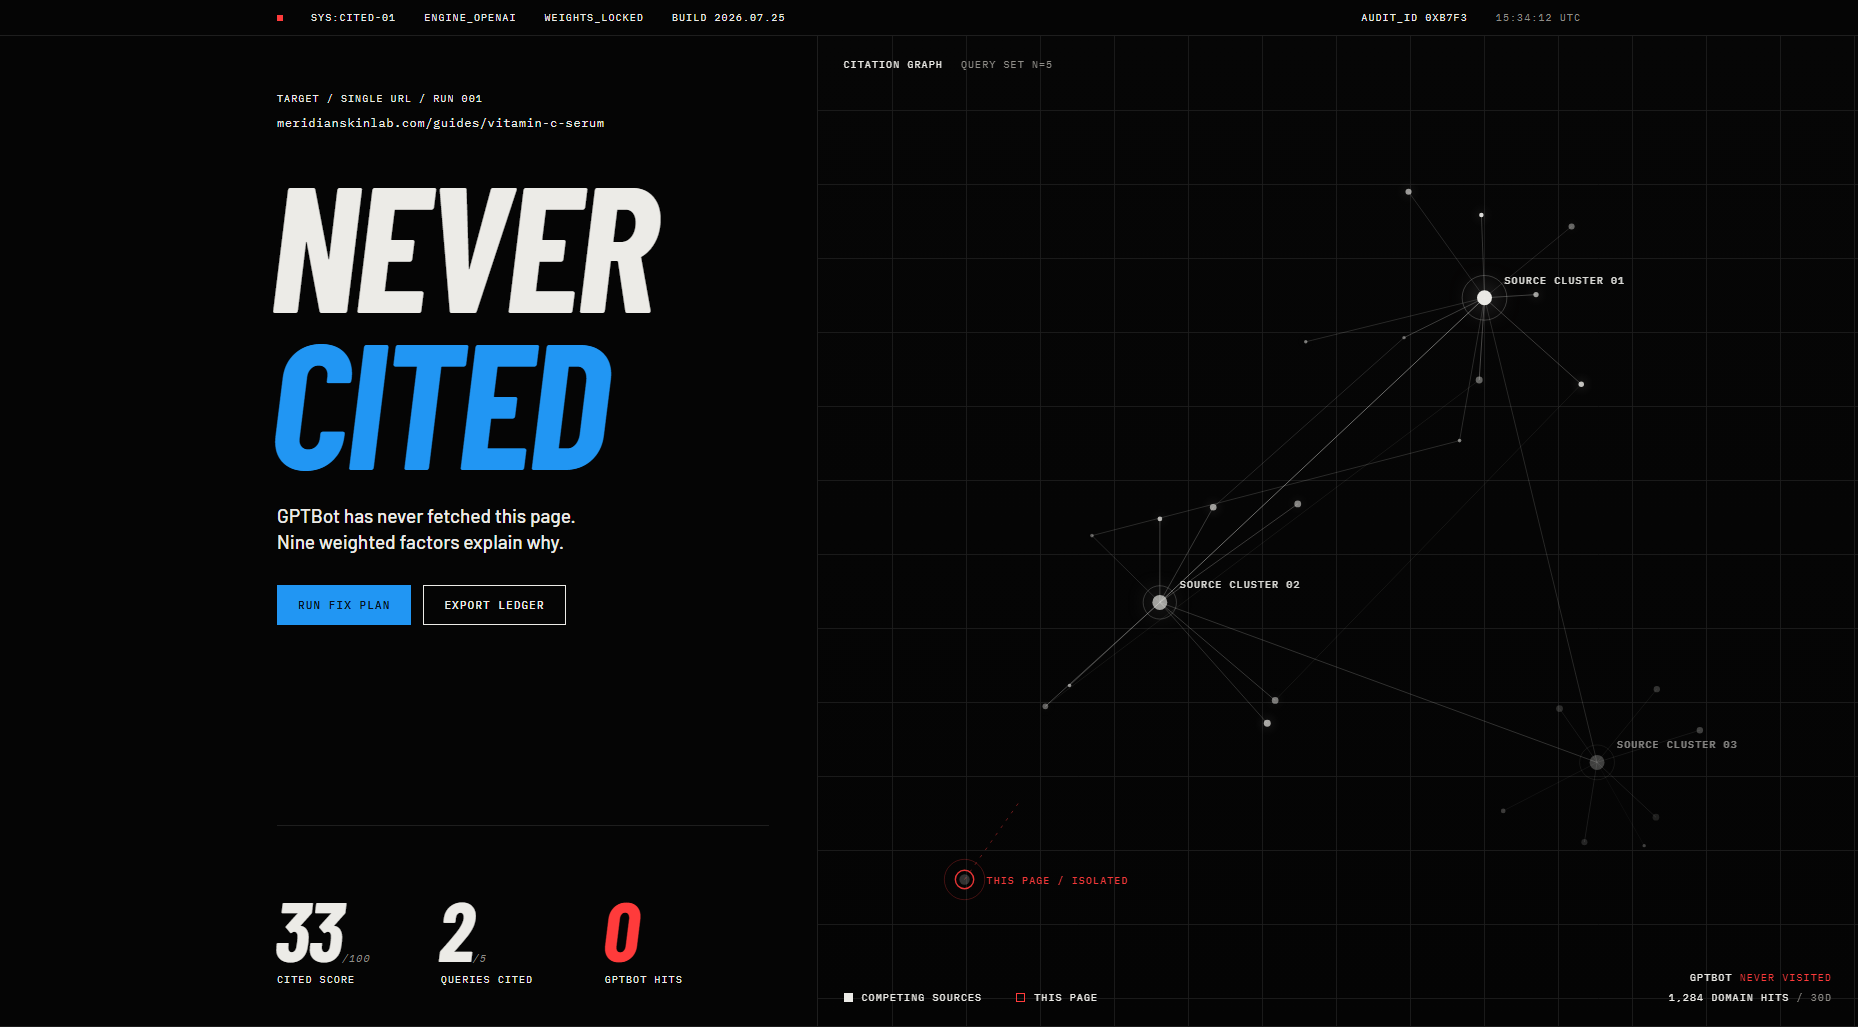
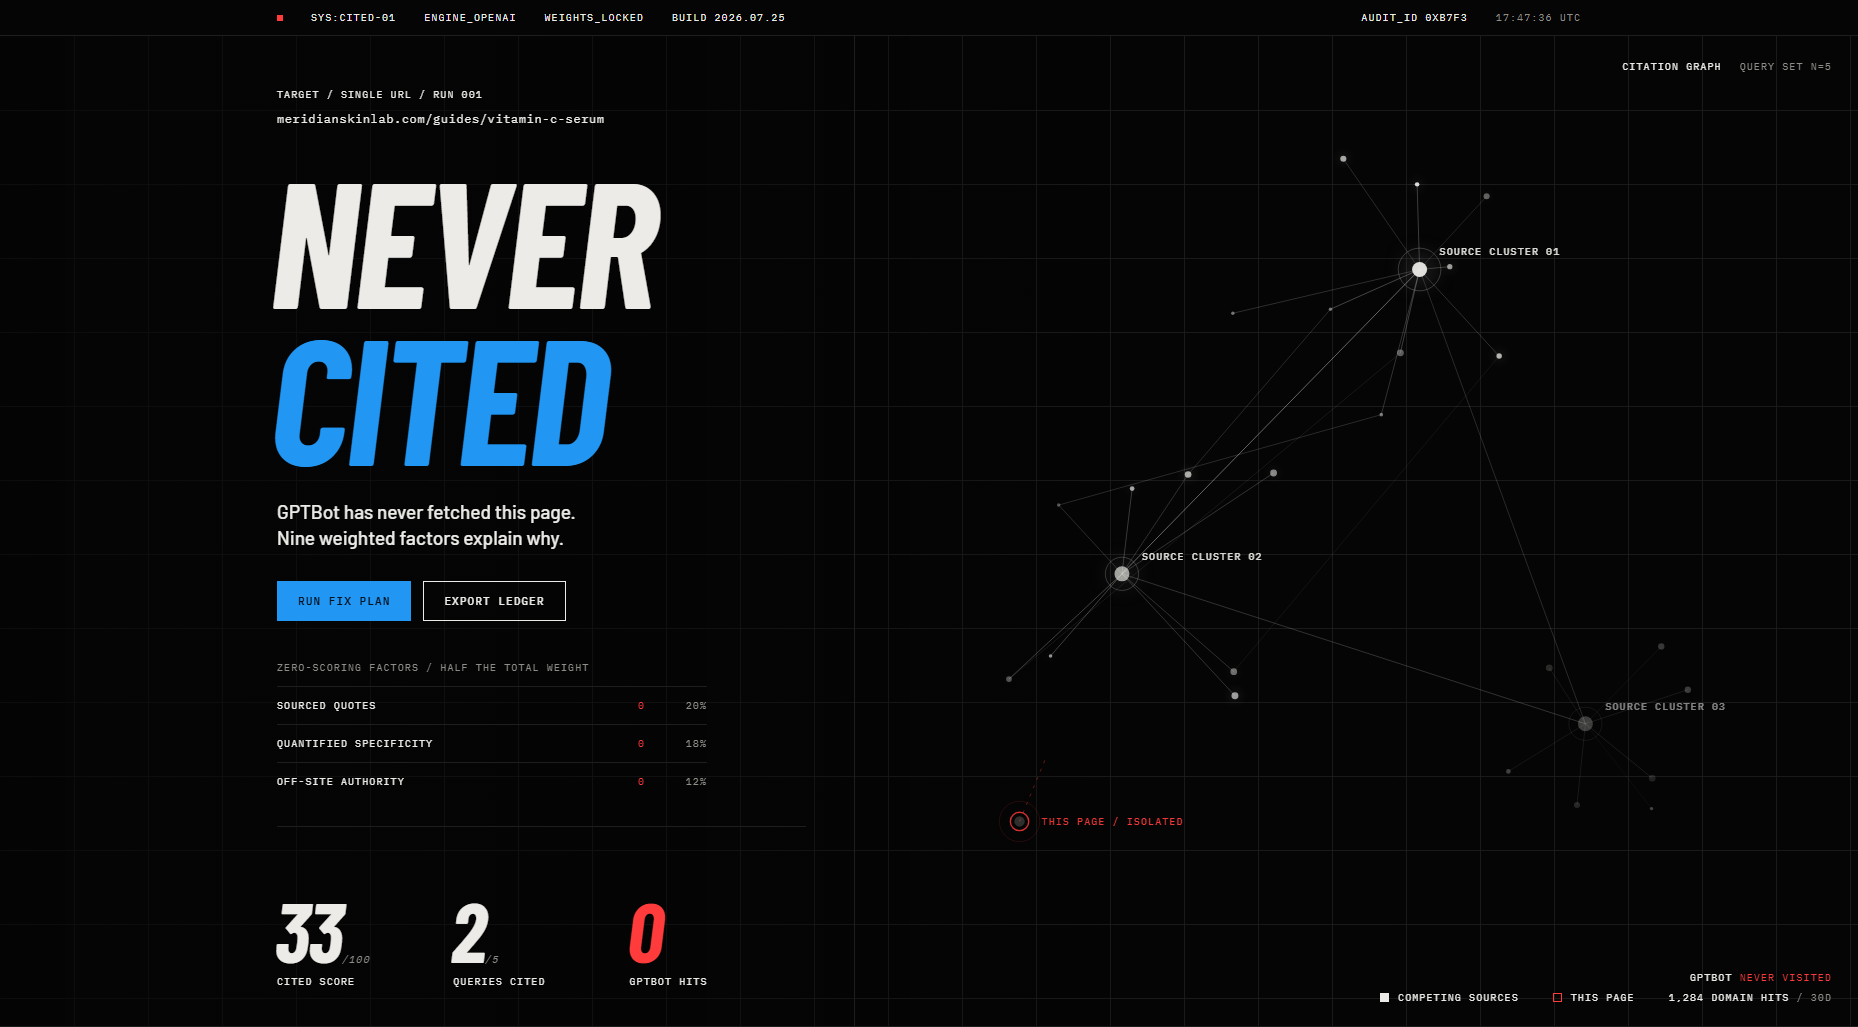
design(variant-b): full-bleed grid + graph across the hero, clusters constrained right, zero-factor block fills the left column

diff --git a/design/mockups/variant-b-brutalist.html b/design/mockups/variant-b-brutalist.html
@@ -160,14 +160,28 @@ body{
    ============================================================ */
 
 .hero{
+  position:relative;
   min-height:calc(100vh - var(--bar-h));
   display:grid;
-  grid-template-columns:minmax(0,44%) minmax(0,56%);
+  grid-template-columns:minmax(0,46%) minmax(0,54%);
   border-bottom:1px solid var(--rule);
+  overflow:hidden;
+}
+
+/* the ruled grid + graph run edge to edge behind the whole hero */
+.hero__stage{ position:absolute; inset:0; z-index:0; }
+
+/* light scrim only: the grid must stay visible under the copy, the clusters live right */
+.hero__scrim{
+  position:absolute; inset:0; z-index:1; pointer-events:none;
+  background:linear-gradient(90deg,
+    rgba(5,5,5,0.62) 0%, rgba(5,5,5,0.44) 36%, rgba(5,5,5,0) 60%);
 }
 
 .hero__left{
-  padding:56px var(--pad) 40px var(--gutter);
+  position:relative;
+  z-index:2;
+  padding:52px var(--pad) 38px var(--gutter);
   display:flex;
   flex-direction:column;
   border-right:1px solid var(--rule);
@@ -208,6 +222,23 @@ body{
   padding-top:30px;
 }
 
+/* the three zeros, filling the left column with data instead of dead space */
+.zeros{
+  margin-top:40px;
+  max-width:430px;
+}
+.zeros__h{ display:block; padding-bottom:12px; }
+.zeros__r{
+  display:grid;
+  grid-template-columns:minmax(0,1fr) 30px 48px;
+  gap:14px;
+  align-items:baseline;
+  border-top:1px solid var(--rule);
+  padding:12px 0;
+}
+.zeros__r span:nth-child(2),
+.zeros__r span:nth-child(3){ text-align:right; }
+
 .stats{
   margin-top:auto;
   padding-top:44px;
@@ -230,30 +261,30 @@ body{
 
 /* ---- canvas panel ---- */
 
+/* label layer only — the canvas itself is the full-bleed stage behind */
 .hero__vis{
   position:relative;
-  min-height:520px;
-  background:
-    linear-gradient(180deg, #060606 0%, #040404 100%);
+  z-index:2;
 }
 #net{ display:block; width:100%; height:100%; }
 
 .vis__tag{
   position:absolute;
-  top:22px;
-  left:26px;
+  top:24px;
+  right:26px;
   display:flex;
   gap:18px;
 }
+/* anchored right so the bottom band reads as one block instead of floating mid-void */
 .vis__legend{
   position:absolute;
   bottom:22px;
-  left:26px;
+  left:auto;
   right:26px;
   display:flex;
   gap:34px;
   align-items:flex-end;
-  flex-wrap:wrap;
+  flex-wrap:nowrap;
 }
 .legend__item{
   display:flex;
@@ -514,6 +545,9 @@ body{
 <!-- ============================ 1 — HERO ============================ -->
 <section class="hero">
 
+  <div class="hero__stage"><canvas id="net"></canvas></div>
+  <div class="hero__scrim"></div>
+
   <div class="hero__left">
     <div class="kicker">
       <span class="mono-sm">TARGET / SINGLE URL / RUN 001</span>
@@ -527,6 +561,25 @@ body{
     <div class="actions">
       <a class="btn btn--primary" href="#">RUN FIX PLAN</a>
       <a class="btn" href="#">EXPORT LEDGER</a>
+    </div>
+
+    <div class="zeros">
+      <span class="mono-sm meta zeros__h">ZERO-SCORING FACTORS / HALF THE TOTAL WEIGHT</span>
+      <span class="zeros__r">
+        <span class="mono-sm">SOURCED QUOTES</span>
+        <span class="mono-sm red">0</span>
+        <span class="mono-sm meta">20%</span>
+      </span>
+      <span class="zeros__r">
+        <span class="mono-sm">QUANTIFIED SPECIFICITY</span>
+        <span class="mono-sm red">0</span>
+        <span class="mono-sm meta">18%</span>
+      </span>
+      <span class="zeros__r">
+        <span class="mono-sm">OFF-SITE AUTHORITY</span>
+        <span class="mono-sm red">0</span>
+        <span class="mono-sm meta">12%</span>
+      </span>
     </div>
 
     <div class="stats">
@@ -546,8 +599,6 @@ body{
   </div>
 
   <div class="hero__vis">
-    <canvas id="net"></canvas>
-
     <div class="vis__tag">
       <span class="mono-sm">CITATION GRAPH</span>
       <span class="mono-sm meta">QUERY SET N=5</span>
@@ -721,10 +772,12 @@ body{
   var INK = '236,235,231';
   var RED = '255,59,59';
 
+  /* The canvas is now the full hero width, so cluster x sits in the right half only
+     (copy owns the left) and r is scaled down to keep the same spread in pixels. */
   var clusters = [
-    { x: 0.63, y: 0.26, count: 9, glow: 1.00, r: 0.15, label: 'SOURCE CLUSTER 01' },
-    { x: 0.34, y: 0.57, count: 8, glow: 0.92, r: 0.14, label: 'SOURCE CLUSTER 02' },
-    { x: 0.76, y: 0.74, count: 7, glow: 0.34, r: 0.12, label: 'SOURCE CLUSTER 03' }
+    { x: 0.755, y: 0.23, count: 9, glow: 1.00, r: 0.082, label: 'SOURCE CLUSTER 01' },
+    { x: 0.615, y: 0.54, count: 8, glow: 0.92, r: 0.076, label: 'SOURCE CLUSTER 02' },
+    { x: 0.865, y: 0.70, count: 7, glow: 0.34, r: 0.066, label: 'SOURCE CLUSTER 03' }
   ];
 
   var hubs = [], nodes = [], links = [];
@@ -753,7 +806,7 @@ body{
         var rr = c.r * (0.42 + rand(++s) * 0.68);
         var n = {
           bx: c.x + Math.cos(a) * rr,
-          by: c.y + Math.sin(a) * rr * 1.15,
+          by: c.y + Math.sin(a) * rr * 2.15,   /* r shrank with the wider canvas; keep vertical spread */
           rad: 1.6 + rand(++s) * 2.0,
           glow: c.glow * (0.45 + rand(++s) * 0.5),
           phase: rand(++s) * 6.28,
@@ -780,10 +833,11 @@ body{
       });
     }
 
-    /* our node — isolated, dim, no completed link */
+    /* our node — isolated, dim, no completed link. Stays in the right zone,
+       far below the cluster mass so the isolation still reads. */
     self_ = {
-      bx: 0.135, by: 0.855, rad: 5.2, glow: 0.16,
-      phase: 1.2, drift: 0.006, isSelf: true
+      bx: 0.545, by: 0.795, rad: 5.2, glow: 0.16,
+      phase: 1.2, drift: 0.004, isSelf: true
     };
     nodes.push(self_);
   }
